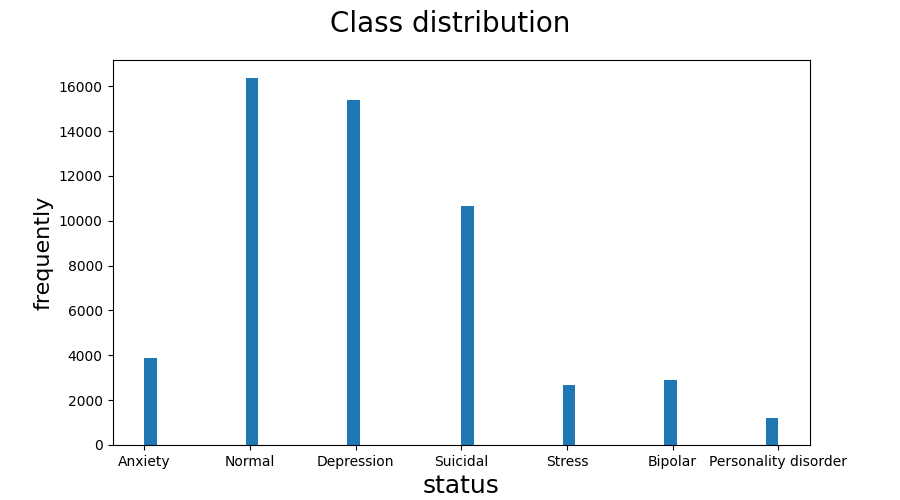
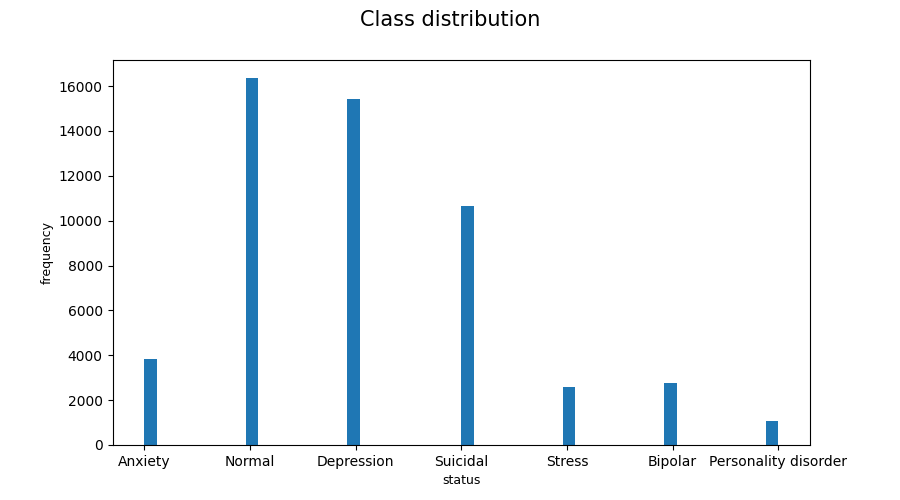
add preprocessing/print statistics

diff --git a/src/text_classification_pipeline.py b/src/text_classification_pipeline.py
@@ -5,12 +5,28 @@ import numpy as np
 from enum import Enum
 from typing import Dict
 from pathlib import Path
+import pandas as pd
+from string import punctuation
 
 from src.utils.get_data import get_data
+from src.eda.preprocessing import (drop_nan, remove_punctuation, remove_digits,
+                                   remove_stop_words, tokenize, stemming, lemmatization)
+from src.eda.rendering.statistics import class_features_distribution, plot_class_distribution
 
 SEED = 4200
 random.seed(SEED)
 np.random.seed(SEED)
+
+class Preprocessor(Enum):
+    REMOWE_ALL_STOP_WORDS_AND_PUNCTUATION=1
+
+class ClassBalancer(Enum):
+    CLASS_WEIGHT=1
+    UNION=2 # experemental union some classes into one
+
+class Embeddings(Enum):
+    TFIDF=1
+    WORD2VEC=2
 
 class Algorithm(Enum):
     SVM=1
@@ -18,25 +34,42 @@ class Algorithm(Enum):
     LSTM=3
     CNN=4
 
+TARGET2ENUM = {
+    "cnn": Algorithm.CNN,
+    "lstm": Algorithm.LSTM,
+    "decision_tree": Algorithm.DECISION_TREE,
+    "svm": Algorithm.SVM,
+    "tfidf": Embeddings.TFIDF,
+    "word2vec": Embeddings.WORD2VEC,
+    "class_weight": ClassBalancer.CLASS_WEIGHT,
+    "union": ClassBalancer.UNION,
+    "remove_all": Preprocessor.REMOWE_ALL_STOP_WORDS_AND_PUNCTUATION,
+}
+
+# TODO change file chekpoint name
 class TextClassificationPipeline:
     def __init__(
             self, 
             dataset_path: str,
             algorithm: str,
+            embeddings: str,
+            class_balancer: str,
+            preprocessor: str,
             do_train: bool
         ) -> None:
         self._dataset = get_data(path=dataset_path)
-        
+
         # TODO add dict for embeddings types
-        # TODO add preprocessing
         # TODO add dict for classic algorithm results
         # TODO add dict for dl algorithm results
         # TODO add metrics
         self._algorithm = self.str2enum(algorithm)
-        self._checkpoint = self.get_checkpoint(algorithm)
+        self._preprocessor = self.str2enum(preprocessor)
+        self._checkpoint_path = self.get_checkpoint(algorithm, embeddings, class_balancer, preprocessor)
         self._do_train = do_train
     
     def run(self) -> None:
+        preprocess_data = self._preprocessor()
         if self._do_train:
             self.train()
             self.infer()
@@ -50,41 +83,59 @@ class TextClassificationPipeline:
             raise NotImplementedError
 
     def infer(self) -> None:
-        if not self._checkpoint.exists():
-            raise RuntimeError(f"The checkpoint: {str(self._checkpoint)} does not exist, train first")
+        if not self._checkpoint_path.exists():
+            raise RuntimeError(f"The checkpoint: {str(self._checkpoint_path)} does not exist, train first")
         
         if self._algorithm == Algorithm.SVM:
             pass
         else:
             raise NotImplementedError
     
-    def str2enum(self, algorithm: str) -> Algorithm:
-        if algorithm == "svm":
-            return Algorithm.SVM
-        elif algorithm == "decision_tree":
-            return Algorithm.DECISION_TREE
-        elif algorithm == "lstm":
-            return Algorithm.LSTM
-        elif algorithm == "cnn":
-            return Algorithm.CNN
+    def preprocess(self) -> pd.DataFrame:
+        if self._preprocessor == Preprocessor.REMOWE_ALL_STOP_WORDS_AND_PUNCTUATION:
+            preprocess_data = drop_nan(self._dataset)
+            plot_class_distribution(preprocess_data)
+            class_features_distribution(preprocess_data, "Length distribution", lambda x: len(x), "length")
+            class_features_distribution(preprocess_data, "Punctuation length distribution", lambda x: len([let for let in x if let in punctuation]), "punctuation_length")
+            class_features_distribution(preprocess_data, "Digit length distribution", lambda x: len([let for let in x if let.isdigit()]), "digit_length")
+            preprocess_data = remove_punctuation(preprocess_data)
+            preprocess_data = remove_digits(preprocess_data)
+            preprocess_data = remove_stop_words(preprocess_data)
+            preprocess_data = tokenize(preprocess_data)
+            preprocess_data = stemming(preprocess_data)
+            return lemmatization(preprocess_data)
+        else:
+            raise NotImplementedError
+
+    def str2enum(self, target: str) -> Algorithm:
+        try:
+            return TARGET2ENUM[target]
+        except:
+            raise ValueError(f"Given algorithm: {target} does not exist")
+    
+    def get_checkpoint_name(
+        self, 
+        algorithm: str, 
+        embeddigns: str,
+        class_balancer: str,
+        preprocessor: str
+    ) -> str:
+        if algorithm in ["svm", "decision_tree"]:
+            return f"{algorithm}_{embeddigns}_{class_balancer}_{preprocessor}.pkl"
+        elif algorithm in ["lstm", "cnn"]:
+            return f"{algorithm}_{embeddigns}_{class_balancer}_{preprocessor}.pt"
         else:
             raise ValueError(f"Given algorithm: {algorithm} does not exist")
     
-    def get_checkpoint_name(self, algorithm: str) -> str:
-        if algorithm == "svm":
-            return "svm.pkl"
-        elif algorithm == "decision_tree":
-            return "decision_tree"
-        elif algorithm == "lstm":
-            return "lstm.pt"
-        elif algorithm == "cnn":
-            return "cnn.pt"
-        else:
-            raise ValueError(f"Given algorithm: {algorithm} does not exist")
-    
-    def get_checkpoint(self, algorithm: str) -> Path:
+    def get_checkpoint(
+        self, 
+        algorithm: str,
+        embeddings: str, 
+        class_balancer: str, 
+        preprocessor: str
+    ) -> Path:
         checkpoints_dir = Path("../checkpoints/")
-        checkpoint_name = Path(self.get_checkpoint_name(algorithm))
+        checkpoint_name = Path(self.get_checkpoint_name(algorithm, embeddings, class_balancer, preprocessor))
         return (checkpoints_dir.joinpath(checkpoint_name))
 
 def parse_args() -> Dict[str, str]:
@@ -103,6 +154,27 @@ def parse_args() -> Dict[str, str]:
         help="algorithm to process"
     )
     args.add_argument(
+        "--embeddigns",
+        required=True,
+        type=str,
+        choices=["tfidf", "word2vec"], #TODO add option for all
+        help="embedding which is used"
+    )
+    args.add_argument(
+        "--class_balancer",
+        required=True,
+        type=str,
+        choices=["class_weight", "union"], #TODO add option for all
+        help="the strategy to deal with class disbalance"
+    )
+    args.add_argument(
+        "--preprocessor",
+        required=True,
+        type=str,
+        choices=["remove_all"], #TODO add option for all
+        help="the strategy to do preprocess"
+    )
+    args.add_argument(
         "--do_train",
         required=False,
         type=bool,
@@ -114,7 +186,14 @@ def parse_args() -> Dict[str, str]:
 
 def main() -> None:
     args = parse_args
-    pipeline = TextClassificationPipeline(dataset_path=args["dataset_path"], algorithm=args["algorithm"], train=args["do_train"])
+    pipeline = TextClassificationPipeline(
+        dataset_path=args["dataset_path"], 
+        algorithm=args["algorithm"], 
+        embeddings=args["embeddigns"],
+        class_balancer=args["class_balancer"],
+        preprocessor=args["preprocessor"],
+        train=args["do_train"]
+    )
 
     pipeline.run()
 

diff --git a/src/eda/preprocessing/preprocessing.py b/src/eda/preprocessing/preprocessing.py
@@ -1,0 +1,52 @@
+import pandas as pd
+import logging as log
+from string import punctuation
+import nltk
+from nltk.stem import PorterStemmer
+from nltk.stem import WordNetLemmatizer
+from nltk.corpus import stopwords
+import re
+
+def drop_nan(data) -> pd.DataFrame:
+    log.info("EDA: drop nan")
+    return data.dropna()
+
+
+def remove_punctuation(data) -> pd.DataFrame:
+    log.info("EDA: remove punctuation")
+    punctuations_str = punctuation
+    punctuation_re = r'[{}]'.format(punctuations_str)
+    replace_punct = lambda x: re.sub(punctuation_re, '', x)
+    data["statement"] = data["statement"].map(replace_punct)
+
+    return data
+
+def remove_digits(data) -> pd.DataFrame:
+    log.info("EDA: remove digits")
+    digits_re = r'[0-9]+'
+    replace_digits = lambda x: re.sub(digits_re, '', x)
+    data["statement"] = data["statement"].map(replace_digits)
+
+    return data
+
+def remove_stop_words(data) -> pd.DataFrame:
+    log.info("EDA: remove stop words")
+    nltk.download('stopwords')
+    stop_words = set(stopwords.words('english'))
+    replace_stop_words = lambda x: ' '.join([word for word in x.lower().split(' ') if word  not in stop_words])
+    data["statement"] = data["statement"].map(replace_stop_words)
+    return data
+
+def tokenize(data) -> pd.DataFrame:
+    data["statement"] = data["statement"].map(lambda x: x.lower().split())
+    return data
+
+def stemming(data) -> pd.DataFrame:
+    stemmer = PorterStemmer()
+    data["statement"] = data["statement"].map(lambda x: [stemmer.stem(item) for item in x])
+    return data
+
+def lemmatization(data) -> pd.DataFrame:
+    lemmer = WordNetLemmatizer()
+    data["statement"] = data["statement"].map(lambda x: [lemmer.lemmatize(item) for item in x])
+    return data

diff --git a/src/eda/rendering/statistics.py b/src/eda/rendering/statistics.py
@@ -6,7 +6,21 @@ SAVE_PATH = "../../../graphs/"
 def plot_class_distribution(data: pd.DataFrame) -> None:
     fig = plt.figure(figsize=(9, 5))
     plt.hist(data["status"], bins=50, histtype="barstacked")
-    fig.suptitle("Class distribution", fontsize=20)
-    plt.xlabel("status", fontsize=18)
-    plt.ylabel("frequently", fontsize=16)
+    fig.suptitle("Class distribution", fontsize=15)
+    plt.xlabel("status", fontsize=9)
+    plt.ylabel("frequency", fontsize=9)
     fig.savefig(f"{SAVE_PATH}class_distribution.png")
+
+def class_features_distribution(data, plot_title, function, function_name):
+    classes = data["status"].unique()
+    fig, ax = plt.subplots(nrows=2, ncols=4, sharex=False, sharey=True, figsize=(17, 10))
+    fig.suptitle(plot_title, fontsize=15)
+
+    for i, class_name in enumerate(classes):
+        subdata = data[data["status"] == class_name]
+        features = subdata["statement"].apply(function)
+        ax[i // 4, i % 4].hist(features, bins=25, color="g")
+        ax[i // 4, i % 4].title.set_text(f"{class_name}")
+        ax[i // 4, i % 4].set(xlabel=f"{function_name}", ylabel="frequency")
+    
+    fig.savefig(f"{SAVE_PATH}class_features_distribution_{function_name}")

diff --git a/src/eda/preprocessing/embeddings.py b/src/eda/preprocessing/embeddings.py
@@ -1,0 +1,16 @@
+from sklearn.feature_extraction.text import TfidfVectorizer
+from sklearn.preprocessing import LabelEncoder
+
+# TODO add return type
+# TODO add word2vec
+def tfidf_embeddings(data):
+    vectorizer = TfidfVectorizer()
+    data["statement"] = data["statement"].map(' '.join)
+    X = vectorizer.fit_transform(data["statement"])
+    if "status" in data.columns:
+        enc = LabelEncoder()
+        enc.fit(data["status"])
+        y = enc.transform(data["status"])
+
+        return X, y
+    return X

diff --git a/README.md b/README.md
@@ -11,3 +11,16 @@ pip3 install -r requirements.txt
 ## EDA
 Dataset is taken from [kaggle](https://www.kaggle.com/datasets/suchintikasarkar/sentiment-analysis-for-mental-health/data), navigate to more description. To brief, dataset consist of two columns with `statement` and `status` name. The `status` is our target, which could take seven different value, so we deal with multiclass classification. The total amount of row is 52681, some of this rows are nan, so we remove them. It lead to 53043 appropriate rows. Below you could see the distribution of our targets(or classes).
 ![alt text](./graphs/class_distribution.png)
+
+As you can see we have disbalanced classes, we deal with it using [class weight](https://scikit-learn.org/stable/modules/generated/sklearn.utils.class_weight.compute_class_weight.html) approach. Below we provide a little more statistics of our data.
+![alt text](./graphs/class_features_distribution_length.png)
+> The chart consist of histograms of the sentences length. Notice that a huge frequency corresponds to relative short sentences. A long sentences relate to Suicidal, Personality disorder, following by Anxiety, Depression, Bipolar and Stress. A smallest sentences belong to Normal.
+![alt text](./graphs/class_features_distribution_punctuation_length.png)
+> The chart consist of histograms of the amount of punctuation (or punctuation length). Notice that the sentences include only one punctuation frequently.
+![alt text](./graphs/class_features_distribution_digit_length.png)
+> The chart consist of histograms of the digit amount. Notice that more sentence have few digits.
+
+We conclude that our data include short sentences around 5-50 words for `Normal`, around 1000-1500 of that for `Suicidal` and `Personality disorder`, about 500-600 of that for `Anxiety`, `Depression`, `Bipolar` and `Stress`, few punctuation and few digits. So the statistics say that `Suicidal` and `Personality disorder` people have a numerous thoughts, probably unnecessary. Notice also that almost all histograms are left shifted. 
+
+Below we provide the histograms of more frequent words in our data.
+ 
